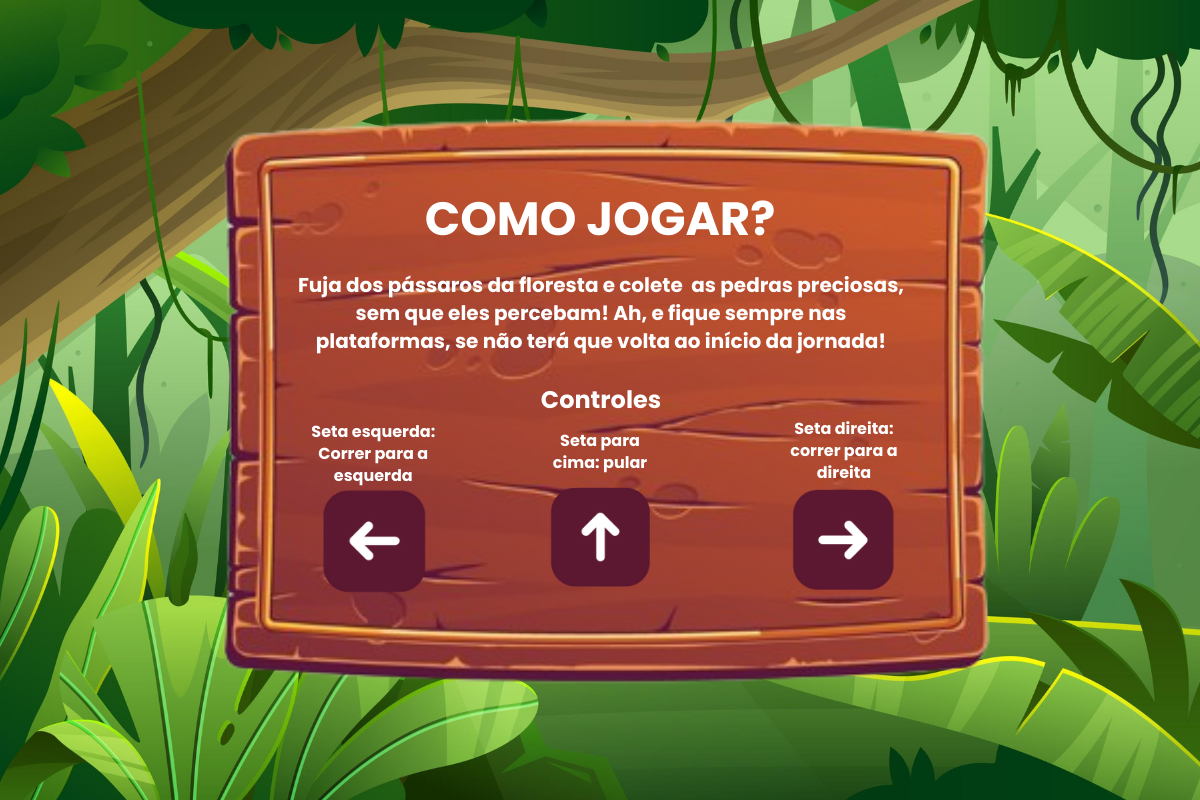
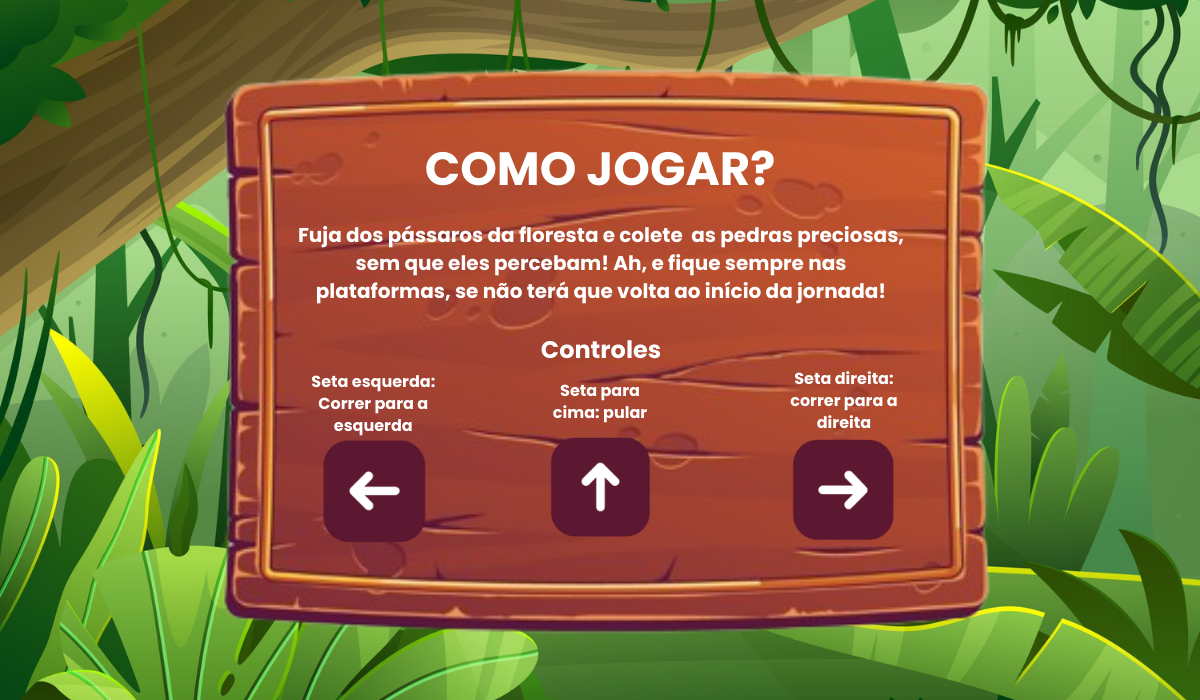
doneGame

diff --git a/src/gameOverScene.js b/src/gameOverScene.js
@@ -14,6 +14,7 @@ class GameOverScene extends Phaser.Scene{
         });
 
         this.load.image('playAgainButton', 'assets/playAgainButton.png');
+        this.load.image('initialScreenButton', 'assets/initialScreenButton.png');
     }
 
     //Parâmetro data: está servindo para passar os pontos da tela de game para a de gameover.
@@ -27,17 +28,25 @@ class GameOverScene extends Phaser.Scene{
         this.background.setDisplaySize(gameWidth, gameHeight);
 
         //Mensagem de derrota.
-        this.defeatMessage = this.add.image(gameWidth/2, gameHeight/2.5, 'defeatMessage');
+        this.defeatMessage = this.add.image(gameWidth/2, gameHeight/2.8, 'defeatMessage');
 
         //Mostrando quantas pedras preciosas o jogador coletou.
-        this.add.text(gameWidth / 2, gameHeight /1.5, `Pedras preciosas coletadas: ${data.points}`, {fontSize: "25px",fontFamily: "Poppins", color: "#ffffff"}).setOrigin(0.5);
+        this.add.text(gameWidth / 2, gameHeight /1.65, `Pedras preciosas coletadas: ${data.points}`, {fontSize: "25px",fontFamily: "Poppins", color: "#ffffff"}).setOrigin(0.5);
         
         //Botão de reiniciar da tela de derrota
-        var restartButton = this.add.image(gameWidth / 2, gameHeight/1.3, 'playAgainButton').setScale(0.7).setInteractive();
+        var restartButton = this.add.image(gameWidth / 2, gameHeight/1.45, 'playAgainButton').setScale(0.6).setInteractive();
 
         //Quando o botão de reiniciar é clicado, o jogador pode voltar ao jogo.
         restartButton.on("pointerdown", () => {
             this.scene.start("GameScene"); 
+        });
+
+        //Botão para voltar à tela inicial.
+        this.initialScreenButton = this.add.image(gameWidth / 2, gameHeight/1.25, 'initialScreenButton').setScale(0.6).setInteractive();
+
+        //Quando o botão "ir à tela inicial", o jogador volta à tela inicial.
+        this.initialScreenButton.on("pointerdown", () => {
+            this.scene.start("InitialScene"); 
         });
     }
 }

diff --git a/src/winScene.js b/src/winScene.js
@@ -4,11 +4,12 @@ class WinScene extends Phaser.Scene{
         super({key: 'WinScene'}); //Chave da cena de vitória (id).
     }
 
-    //Carregando a imagem do fundo.
+    //Carregando as imagens da tela de vitória.
     preload(){
         this.load.image('background', 'assets/background.jpg');
         this.load.image('congratulationsMessage', 'assets/congratulationsMessage.png');
         this.load.image('playAgainButton', 'assets/playAgainButton.png');
+        this.load.image('initialScreenButton', 'assets/initialScreenButton.png');
     }
 
     create(){
@@ -21,14 +22,22 @@ class WinScene extends Phaser.Scene{
         this.background.setDisplaySize(gameWidth, gameHeight);
 
         //Mensagem de vitória.
-        this.congratulationsMessage = this.add.image(gameWidth/2, gameHeight/2, 'congratulationsMessage');
+        this.congratulationsMessage = this.add.image(gameWidth/2, gameHeight/2.5, 'congratulationsMessage');
 
         //Botão de reiniciar.
-        var restartButton = this.add.image(gameWidth / 2, gameHeight/1.25, 'playAgainButton').setScale(0.6).setInteractive();
+        var restartButton = this.add.image(gameWidth / 2, gameHeight/1.45, 'playAgainButton').setScale(0.6).setInteractive();
 
         //Quando o botão de reiniciar é clicado, o jogador pode voltar ao jogo.
         restartButton.on("pointerdown", () => {
             this.scene.start("GameScene"); 
+        });
+
+        //Botão para voltar à tela inicial.
+        this.initialScreenButton = this.add.image(gameWidth / 2, gameHeight/1.25, 'initialScreenButton').setScale(0.6).setInteractive();
+
+        //Quando o botão "ir à tela inicial", o jogador volta à tela inicial.
+        this.initialScreenButton.on("pointerdown", () => {
+            this.scene.start("InitialScene"); 
         });
     }
 }

diff --git a/src/initialScene.js b/src/initialScene.js
@@ -22,13 +22,13 @@ class InitialScene extends Phaser.Scene {
         var initialSceneBackground = this.add.image(gameWidth/2, gameHeight/2, 'backgroundInitialScene');
         initialSceneBackground.setScale(gameWidth/initialSceneBackground.width, gameHeight/initialSceneBackground.height);
 
-        this.add.image(gameWidth / 2, gameHeight / 2.5, 'gameName');
+        this.add.image(gameWidth / 2, gameHeight / 2.8, 'gameName');
 
         //Criando o botão de start (início do jogo).
-        var startButton = this.add.image(gameWidth/2, gameHeight/1.5, 'startButton').setScale(0.7).setInteractive();
+        var startButton = this.add.image(gameWidth/2, gameHeight/1.65, 'startButton').setScale(0.7).setInteractive();
 
         //Criando o botão para o tutorial ("como jogar").
-        var howToPlayButton = this.add.image(gameWidth/2, gameHeight/1.3, 'howToPlayButton').setScale(0.7).setInteractive();
+        var howToPlayButton = this.add.image(gameWidth/2, gameHeight/1.4, 'howToPlayButton').setScale(0.7).setInteractive();
 
         //Iniciando a cena de jogo quando o botão de início é clicado.
         startButton.on('pointerdown', () =>{

diff --git a/index.html b/index.html
@@ -17,7 +17,7 @@
                 margin: 0;
                 padding: 0;
                 height: 100vh;
-              
+                display: flex;
                 justify-content: center;
                 align-items: center;
                 box-sizing: border-box;
@@ -38,7 +38,7 @@
             const config = {
                 type: Phaser.AUTO,
                 width: 1200,
-                height: 600,
+                height: 700,
                 scene: [InitialScene, Tutorial, GameScene, WinScene, GameOverScene], //REQUISITO DA ATIVIDADE: ESTRUTURANDO O JOGO EM DUAS OU MAIS CENAS.
                 parent: "gameSpace",
                 physics: {
@@ -48,10 +48,6 @@
                         debug: false 
                     }
                 },
-                scale: {
-                    mode: Phaser.Scale.NONE, 
-                    autoCenter: Phaser.Scale.CENTER_BOTH,
-                }
             }
 
             const game = new Phaser.Game(config);

diff --git a/src/tutorial.js b/src/tutorial.js
@@ -20,7 +20,7 @@ class Tutorial extends Phaser.Scene{
         this.background.setDisplaySize(gameWidth, gameHeight);
 
         //Botão de voltar (para a tela inicial).
-        this.comeBackButton = this.add.image(100, 200,'comeBackButton').setScale(0.4).setInteractive();
+        this.comeBackButton = this.add.image(100, 150,'comeBackButton').setScale(0.4).setInteractive();
         this.comeBackButton.on('pointerdown', () =>{
             this.scene.start('InitialScene');
         })

diff --git a/src/game.js b/src/game.js
@@ -75,7 +75,7 @@ class GameScene extends Phaser.Scene{
 
 
         //Texto dos pontos -> REQUISITO DA ATIVIDADE: PLACAR.
-        this.pointsText = this.add.text(100, 200, 'Pedras preciosas: 0').setScrollFactor(0).setStyle({fontSize: '40px', fontFamily: "Poppins"});
+        this.pointsText = this.add.text(100, 100, 'Pedras preciosas: 0').setScrollFactor(0).setStyle({fontSize: '40px', fontFamily: "Poppins"});
 
 
         //Grupos das pedras preciosas da recompensa.
